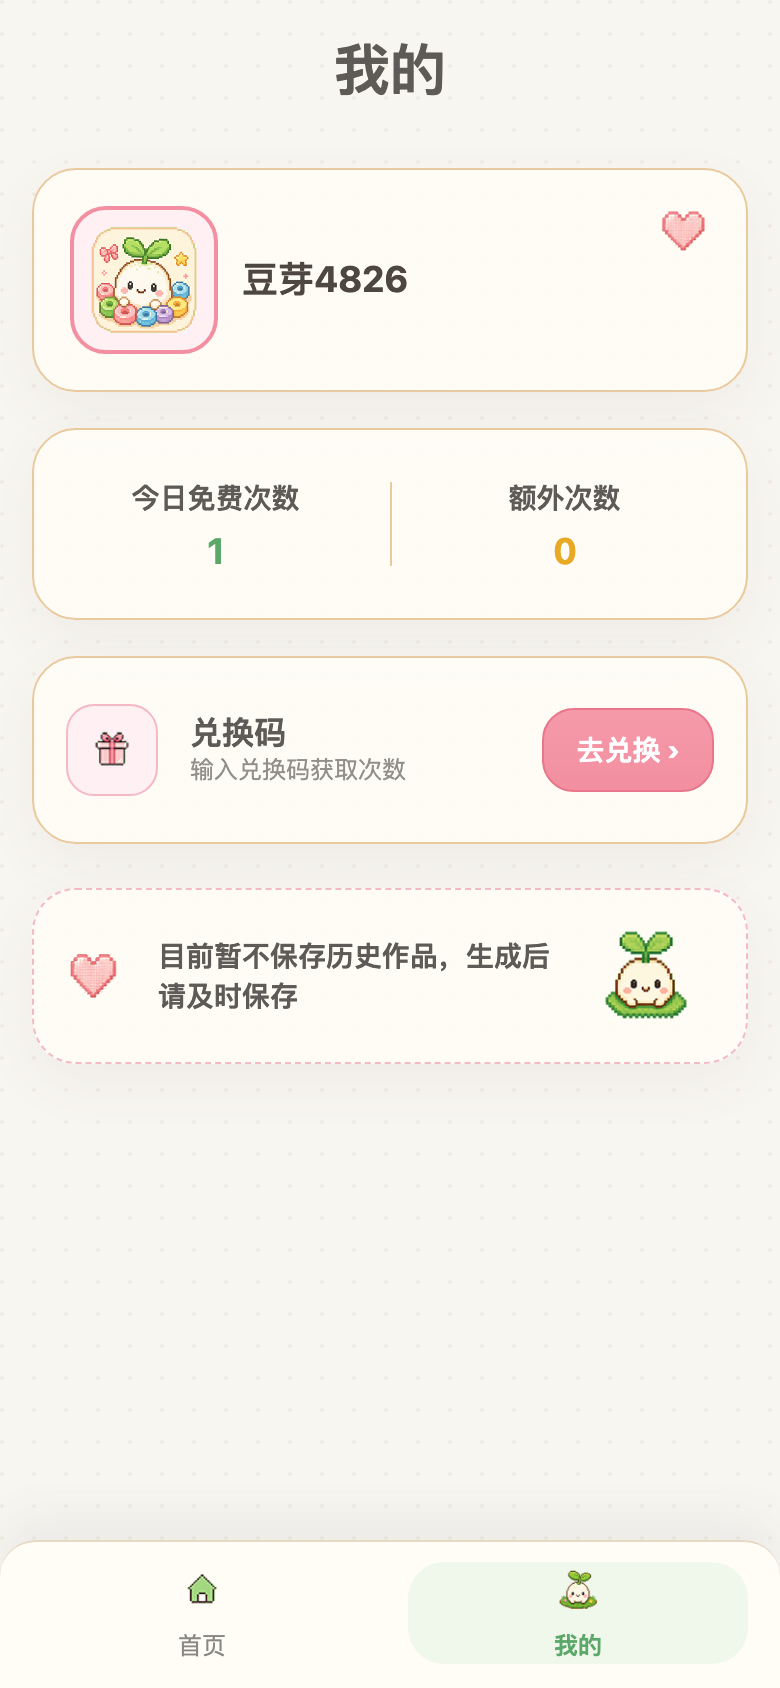
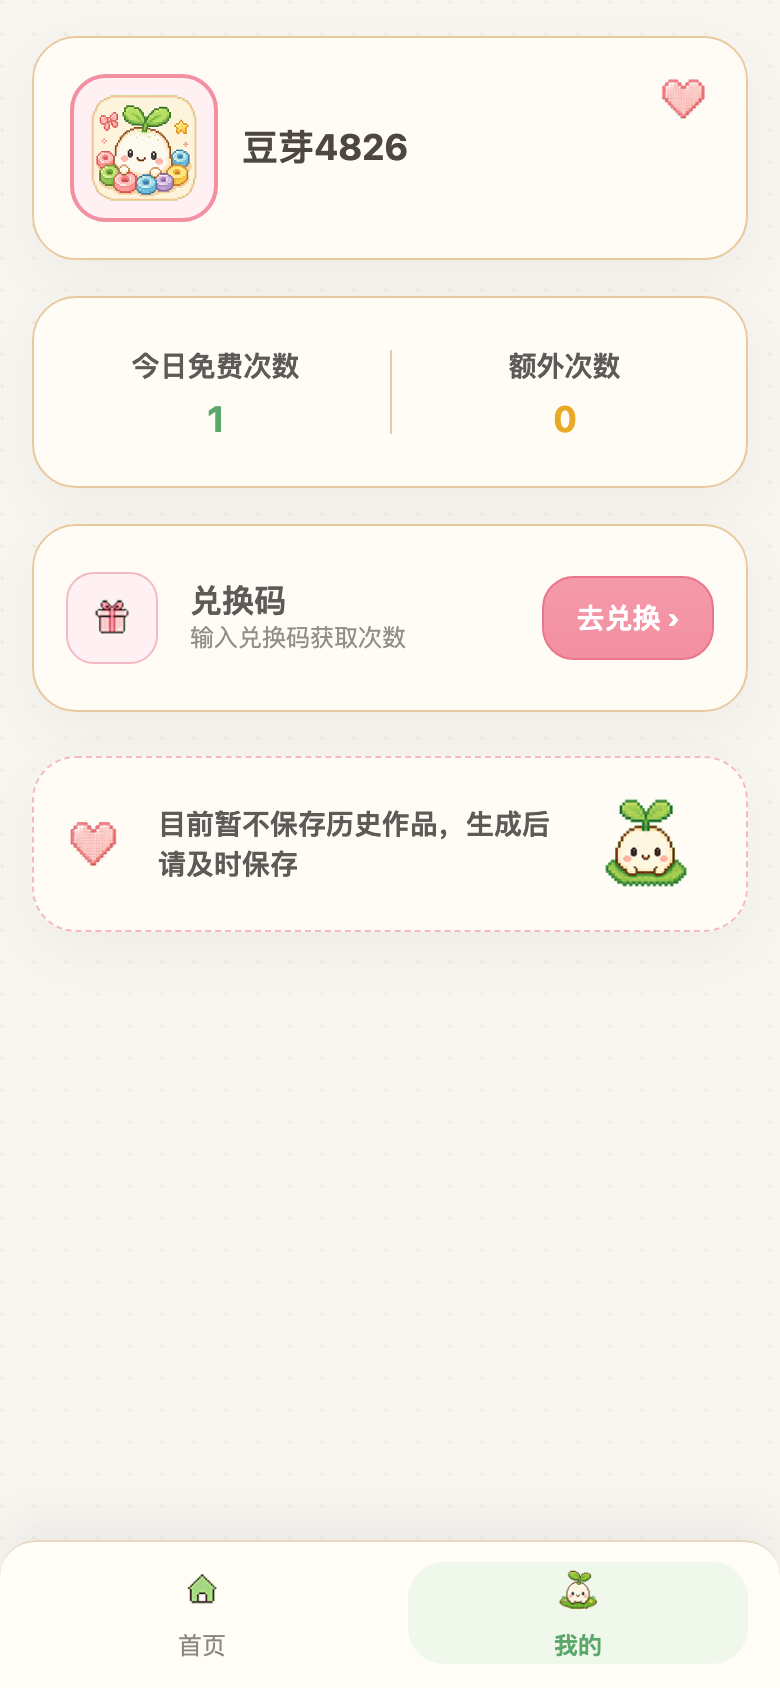
Tighten mobile top spacing

diff --git a/production-html/styles.css b/production-html/styles.css
@@ -984,7 +984,7 @@ body.mini-program-app {
   max-width: 390px;
   min-height: 100dvh;
   margin: 0;
-  padding: max(20px, env(safe-area-inset-top)) 18px calc(96px + env(safe-area-inset-bottom));
+  padding: 18px 18px calc(96px + env(safe-area-inset-bottom));
 }
 
 .mini-program-app .screen {
@@ -1491,21 +1491,6 @@ body.mini-program-app {
 
 .two-tabbar .tab-item.is-active {
   background: rgba(234, 247, 232, .72);
-}
-
-.profile-screen {
-  padding-top: 16px;
-}
-
-.profile-header {
-  position: relative;
-  min-height: 66px;
-  text-align: center;
-}
-
-.profile-header h1 {
-  color: var(--text-primary);
-  font-size: 28px;
 }
 
 .profile-card {

diff --git a/production-html/mini-program.html b/production-html/mini-program.html
@@ -78,10 +78,6 @@
     </section>
 
     <section id="screen-profile" class="screen mini-screen profile-screen" data-screen="profile">
-      <header class="profile-header">
-        <h1>我的</h1>
-      </header>
-
       <section class="profile-card">
         <img src="assets/brand/app-icon.png" alt="豆芽头像" class="profile-avatar">
         <strong>豆芽4826</strong>

diff --git a/production-html/tests/verify-production-html.js b/production-html/tests/verify-production-html.js
@@ -108,7 +108,7 @@ assert(!miniHtml.includes("profile-count-card\">\n        <div>\n          <img"
 assert(!miniHtml.includes("home-hero"), "Home must remove the top AI promo area.");
 assert(miniHtml.includes("top-brand-row"), "Home logo/name/slogan must share one top brand row.");
 assert(miniHtml.includes('src="assets/brand/mascot-logo.png"') && miniHtml.includes("home-brand-icon"), "Home top brand must use the logo icon on the left.");
-assert(css.includes("padding: max(20px, env(safe-area-inset-top))"), "Home top brand must sit 20px from the top.");
+assert(css.includes("padding: 18px 18px calc(96px + env(safe-area-inset-bottom))"), "Home top brand spacing must match the gap above the upload card.");
 assert(css.includes(".home-brand {\n  padding: 0 8px 8px;"), "Home brand must not add extra top padding.");
 assert(css.includes(".home-logo") && css.includes("width: 56px"), "Home name logo must be reduced to half size.");
 assert(css.includes(".home-brand p") && css.includes("font-size: 8px"), "Home slogan must be reduced to half size.");
@@ -121,6 +121,8 @@ assert(css.includes(".quota-number") && css.includes("font-size: 18px"), "Home q
 assert(css.includes(".home-generate-button") && css.includes("font-size: 16px"), "Generate button text must be 16px.");
 assert(miniHtml.includes("style-options") && miniHtml.includes("style-card"), "Cartoon style must use card option layout.");
 assert(!miniHtml.includes("profile-brand-row"), "Profile must remove top app name and illustration strip.");
+assert(!miniHtml.includes("profile-header"), "Profile must remove the top title area.");
+assert(!css.includes(".profile-header"), "Profile title area styles must be removed.");
 assert(css.includes(".profile-avatar") && css.includes("width: 74px") && css.includes("height: 74px"), "Profile avatar must be reduced to two-thirds size.");
 assert(css.includes(".profile-card strong") && css.includes("font-size: 18px"), "Profile nickname must be 18px.");
 assert(css.includes(".profile-count-card span") && css.includes("font-size: 14px"), "Profile count labels must be 14px.");

diff --git a/production-html/design-qa.md b/production-html/design-qa.md
@@ -33,7 +33,7 @@ Browser smoke results:
 - Mini program bottom navigation contains only `首页` and `我的`; old `生成` and `图纸` navigation entries and pages are removed.
 - Admin page loaded with 18 images and 0 broken images.
 - Mini program viewport is a direct 390px mobile-browser page, not a phone mockup; checked `documentElement.scrollWidth = 390`.
-- Home top brand uses the mascot logo on the left, with app name and slogan on the right; the brand group starts 20px from the top.
+- Home top brand uses the mascot logo on the left, with app name and slogan on the right; the top gap matches the gap between the brand group and upload card.
 - Home app-name image and slogan text are reduced to 1/2 of the previous size.
 - Home top promo area `AI生成专属拼豆图纸` has been removed.
 - Home upload dashed area is a 1:1 square; uploaded images cover the square and show the generated close PNG in the top-right corner.
@@ -45,7 +45,7 @@ Browser smoke results:
 - Home generate button has no shadow.
 - Home save reminder copy is `生成后请及时保存`.
 - Home generate button is visible above the bottom navigation at 390px viewport.
-- Profile top app-name and illustration strip has been removed.
+- Profile top app-name, illustration strip, and `我的` title area have been removed.
 - Profile avatar is reduced to 74px and fills the avatar frame; nickname is 18px.
 - Profile count card removes the free/extra icons and uses 14px labels with 18px numbers.
 - Profile redeem copy is `兑换码` / `输入兑换码获取次数`; redeem icon is 46px and the button text is 14px.